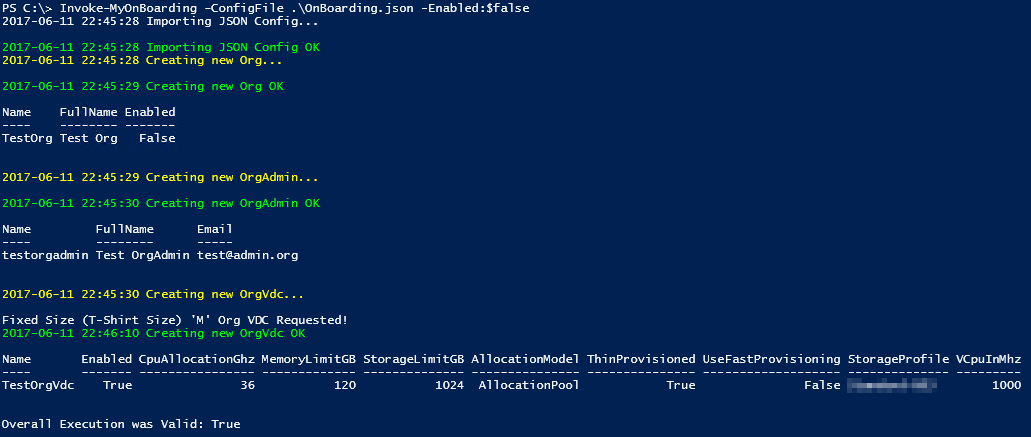
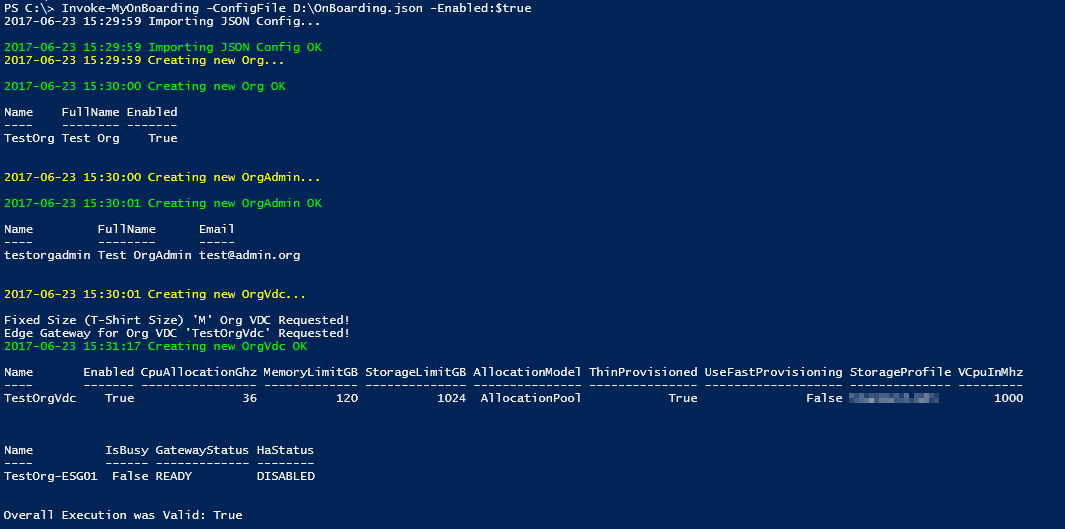
add New-MyEdgeGateway Meta Files

diff --git a/docs/features/cmd_new.rst b/docs/features/cmd_new.rst
@@ -3,9 +3,89 @@
 
 This page contains details on **New** commands.
 
-New-MyOrg
+New-MyEdgeGateway
 -------------------------
 
+
+NAME
+    New-MyEdgeGateway
+    
+SYNOPSIS
+    Creates a new Edge Gateway with Default Parameters
+    
+    
+SYNTAX
+    New-MyEdgeGateway [-Name] <String> [-OrgVdcName] <String> [-OrgName] <String> [-ExternalNetwork] <String> [-IPAddress] <IPAddress> [-SubnetMask] <IPAddress> [-Gateway] <IPAddress> [-IPRangeStart] <IPAddress> [-IPRangeEnd] <IPAddress> [[-Timeout] 
+    <Int32>] [<CommonParameters>]
+    
+    
+DESCRIPTION
+    Creates a new Edge Gateway with Default Parameters
+    
+    Default Parameters are:
+    * Size 
+    * HA State
+    * DNS Relay
+    
+
+PARAMETERS
+    -Name <String>
+        Name of the New Edge Gateway as String
+        
+    -OrgVdcName <String>
+        OrgVDC where the new Edge Gateway should be created as string
+        
+    -OrgName <String>
+        Org where the new Edge Gateway should be created as string
+        
+    -ExternalNetwork <String>
+        External Network of the new Edge Gateway as String
+        
+    -IPAddress <IPAddress>
+        IP Address of the New Edge Gateway as IP Address
+        
+    -SubnetMask <IPAddress>
+        Subnet Mask of the New Edge Gateway as IP Address
+        
+    -Gateway <IPAddress>
+        Gateway of the New Edge Gateway as IP Address
+        
+    -IPRangeStart <IPAddress>
+        Sub Allocation IP Range Start of the New Edge Gateway as IP Address
+        
+    -IPRangeEnd <IPAddress>
+        Sub Allocation IP Range End of the New Edge Gateway as IP Address
+        
+    -Timeout <Int32>
+        Timeout for the Edge Gateway to get Ready
+        
+        Default: 120s
+        
+    <CommonParameters>
+        This cmdlet supports the common parameters: Verbose, Debug,
+        ErrorAction, ErrorVariable, WarningAction, WarningVariable,
+        OutBuffer, PipelineVariable, and OutVariable. For more information, see 
+        about_CommonParameters (http://go.microsoft.com/fwlink/?LinkID=113216). 
+    
+    -------------------------- EXAMPLE 1 --------------------------
+    
+    C:\PS>New-MyEdgeGateway -Name "TestEdge" -OrgVDCName "TestVDC" -OrgName "TestOrg" -ExternalNetwork "ExternalNetwork" -IPAddress "192.168.100.1" -SubnetMask "255.255.255.0" -Gateway "192.168.100.254" -IPRangeStart ""192.168.100.2" -IPRangeEnd 
+    ""192.168.100.3" -Verbose
+    
+    
+    
+    
+    
+    
+REMARKS
+    To see the examples, type: "get-help New-MyEdgeGateway -examples".
+    For more information, type: "get-help New-MyEdgeGateway -detailed".
+    For technical information, type: "get-help New-MyEdgeGateway -full".
+    For online help, type: "get-help New-MyEdgeGateway -online"
+
+
+New-MyOrg
+-------------------------
 
 NAME
     New-MyOrg
@@ -54,7 +134,7 @@ PARAMETERS
     
     -------------------------- EXAMPLE 1 --------------------------
     
-    PS C:\>New-MyOrg -Name "TestOrg" -FullName "Test Org" -Description "PowerCLI Test Org"
+    C:\PS>New-MyOrg -Name "TestOrg" -FullName "Test Org" -Description "PowerCLI Test Org"
     
     
     
@@ -117,7 +197,7 @@ PARAMETERS
     
     -------------------------- EXAMPLE 1 --------------------------
     
-    PS C:\>New-MyOrgAdmin -Name "OrgAdmin" -Pasword "Anfang!!" -FullName "Org Admin" -EmailAddress "OrgAdmin@TestOrg.local" -Org "TestOrg"
+    C:\PS>New-MyOrgAdmin -Name "OrgAdmin" -Pasword "Anfang!!" -FullName "Org Admin" -EmailAddress "OrgAdmin@TestOrg.local" -Org "TestOrg"
     
     
     
@@ -142,8 +222,8 @@ SYNOPSIS
     
     
 SYNTAX
-    New-MyOrgVdc [-Name] <String> [-CPULimit] <Int32> [-MEMLimit] <Int32> [-StorageLimit] <Int32> [-StorageProfile] <String> [-NetworkPool] <String> 
-    [[-ExternalNetwork] <String>] [-Enabled] [-ProviderVDC] <String> [-Org] <String> [[-Timeout] <Int32>] [<CommonParameters>]
+    New-MyOrgVdc [-Name] <String> [-CPULimit] <Int32> [-MEMLimit] <Int32> [-StorageLimit] <Int32> [-StorageProfile] <String> [-NetworkPool] <String> [[-ExternalNetwork] <String>] [-Enabled] [-ProviderVDC] <String> [-Org] <String> [[-Timeout] <Int32>] 
+    [<CommonParameters>]
     
     
 DESCRIPTION
@@ -195,7 +275,7 @@ PARAMETERS
         Org where the new Org VDC should be created as string
         
     -Timeout <Int32>
-        Timeout for teh Org VDC to get Ready
+        Timeout for the Org VDC to get Ready
         
         Default: 120s
         
@@ -207,8 +287,7 @@ PARAMETERS
     
     -------------------------- EXAMPLE 1 --------------------------
     
-    PS C:\>New-MyOrgVdc -Name "TestVdc" -CPULimit 1000 -MEMLimit 1000 -StorageLimit 1000 -StorageProfile "Standard-DC01" -NetworkPool 
-    "NetworkPool-DC01" -ProviderVDC "Provider-VDC-DC01" -Org "TestOrg" -ExternalNetwork "External_OrgVdcNet"
+    C:\PS>New-MyOrgVdc -Name "TestVdc" -CPULimit 1000 -MEMLimit 1000 -StorageLimit 1000 -StorageProfile "Standard-DC01" -NetworkPool "NetworkPool-DC01" -ProviderVDC "Provider-VDC-DC01" -Org "TestOrg" -ExternalNetwork "External_OrgVdcNet"
     
     
     
@@ -217,8 +296,7 @@ PARAMETERS
     
     -------------------------- EXAMPLE 2 --------------------------
     
-    PS C:\>New-MyOrgVdc -Name "TestVdc" -CPULimit 1000 -MEMLimit 1000 -StorageLimit 1000 -StorageProfile "Standard-DC01" -NetworkPool 
-    "NetworkPool-DC01" -ProviderVDC "Provider-VDC-DC01" -Org "TestOrg"
+    C:\PS>New-MyOrgVdc -Name "TestVdc" -CPULimit 1000 -MEMLimit 1000 -StorageLimit 1000 -StorageProfile "Standard-DC01" -NetworkPool "NetworkPool-DC01" -ProviderVDC "Provider-VDC-DC01" -Org "TestOrg"
     
     
     

diff --git a/docs/features/cmd_invoke.rst b/docs/features/cmd_invoke.rst
@@ -51,7 +51,13 @@ DESCRIPTION
             "StorageProfile":"Standard-DC01",
             "ProviderVDC":"Provider-VDC-DC01",
             "NetworkPool":"Provider-VDC-DC01-NetPool",
-            "ExternalNetwork": "External_OrgVdcNet"
+            "ExternalNetwork": "External_OrgVdcNet",
+            "EdgeGateway": "Yes",
+            "IPAddress":"192.168.100.1",
+            "SubnetMask":"255.255.255.0",
+            "Gateway":"192.168.100.254",
+            "IPRangeStart":"192.168.100.2",
+            "IPRangeEnd":"192.168.100.3"
         }
     }
     
@@ -73,7 +79,7 @@ PARAMETERS
     
     -------------------------- EXAMPLE 1 --------------------------
     
-    PS C:\>Invoke-MyOnBoarding -ConfigFile ".\OnBoarding.json" -Enabled:$true
+    C:\PS>Invoke-MyOnBoarding -ConfigFile ".\OnBoarding.json" -Enabled:$true
     
     
     
@@ -82,7 +88,7 @@ PARAMETERS
     
     -------------------------- EXAMPLE 2 --------------------------
     
-    PS C:\>Invoke-MyOnBoarding -ConfigFile ".\OnBoarding.json" -Enabled:$false
+    C:\PS>Invoke-MyOnBoarding -ConfigFile ".\OnBoarding.json" -Enabled:$false
     
     
     

diff --git a/README.md b/README.md
@@ -18,6 +18,6 @@ Markus Kraus [@vMarkus_K](https://twitter.com/vMarkus_K)
 
 ## Project Description:
 
-The 'VMware-vCD-Module' PowerShell Module is focused on the initial craation of VMware vCloud Director Objects like Org, Org User, Org VDC.
+The 'VMware-vCD-Module' PowerShell Module is focused on the initial creation of VMware vCloud Director Objects like Org, Org User, Org VDC with External Networks or Edge Gateway.
 
 
